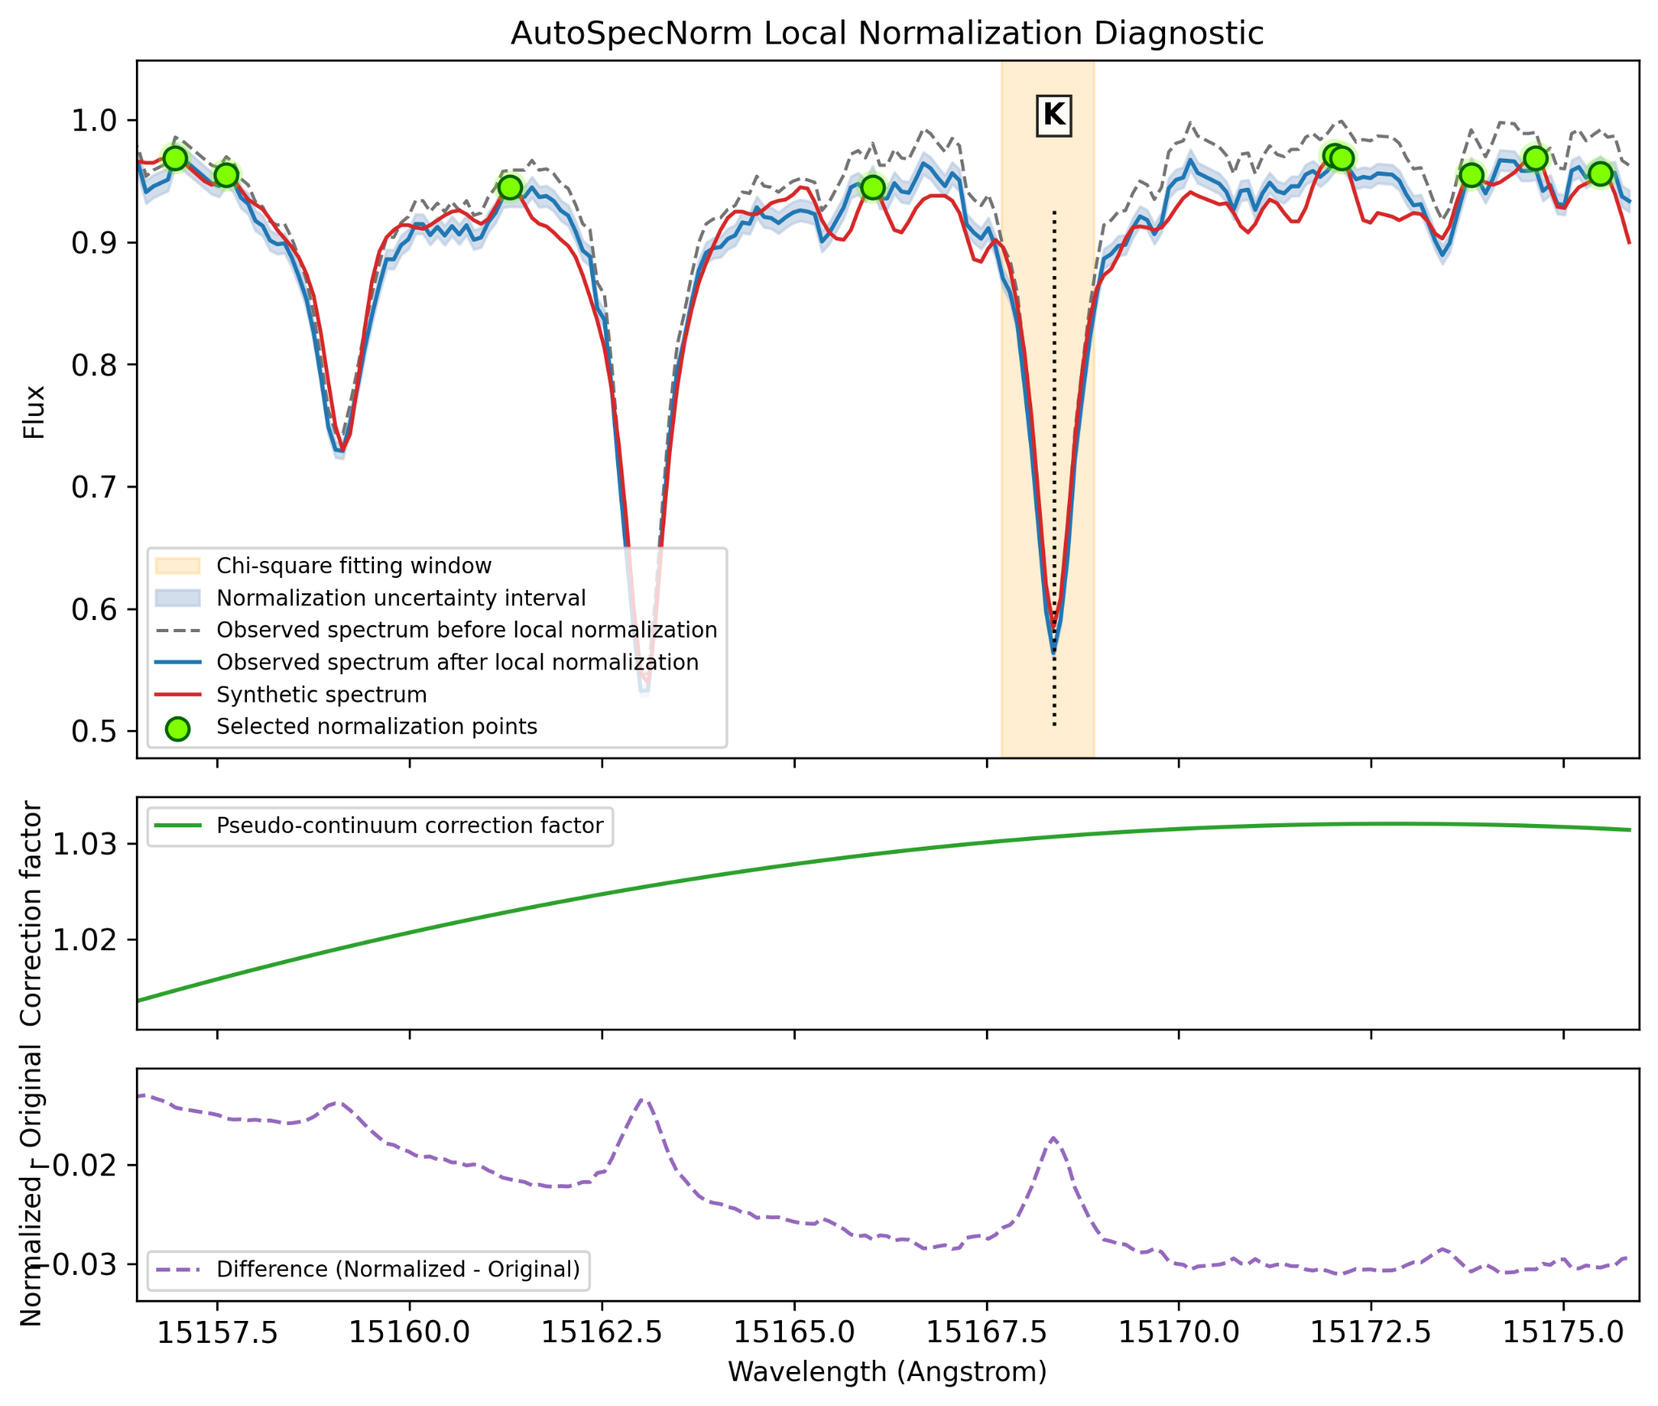
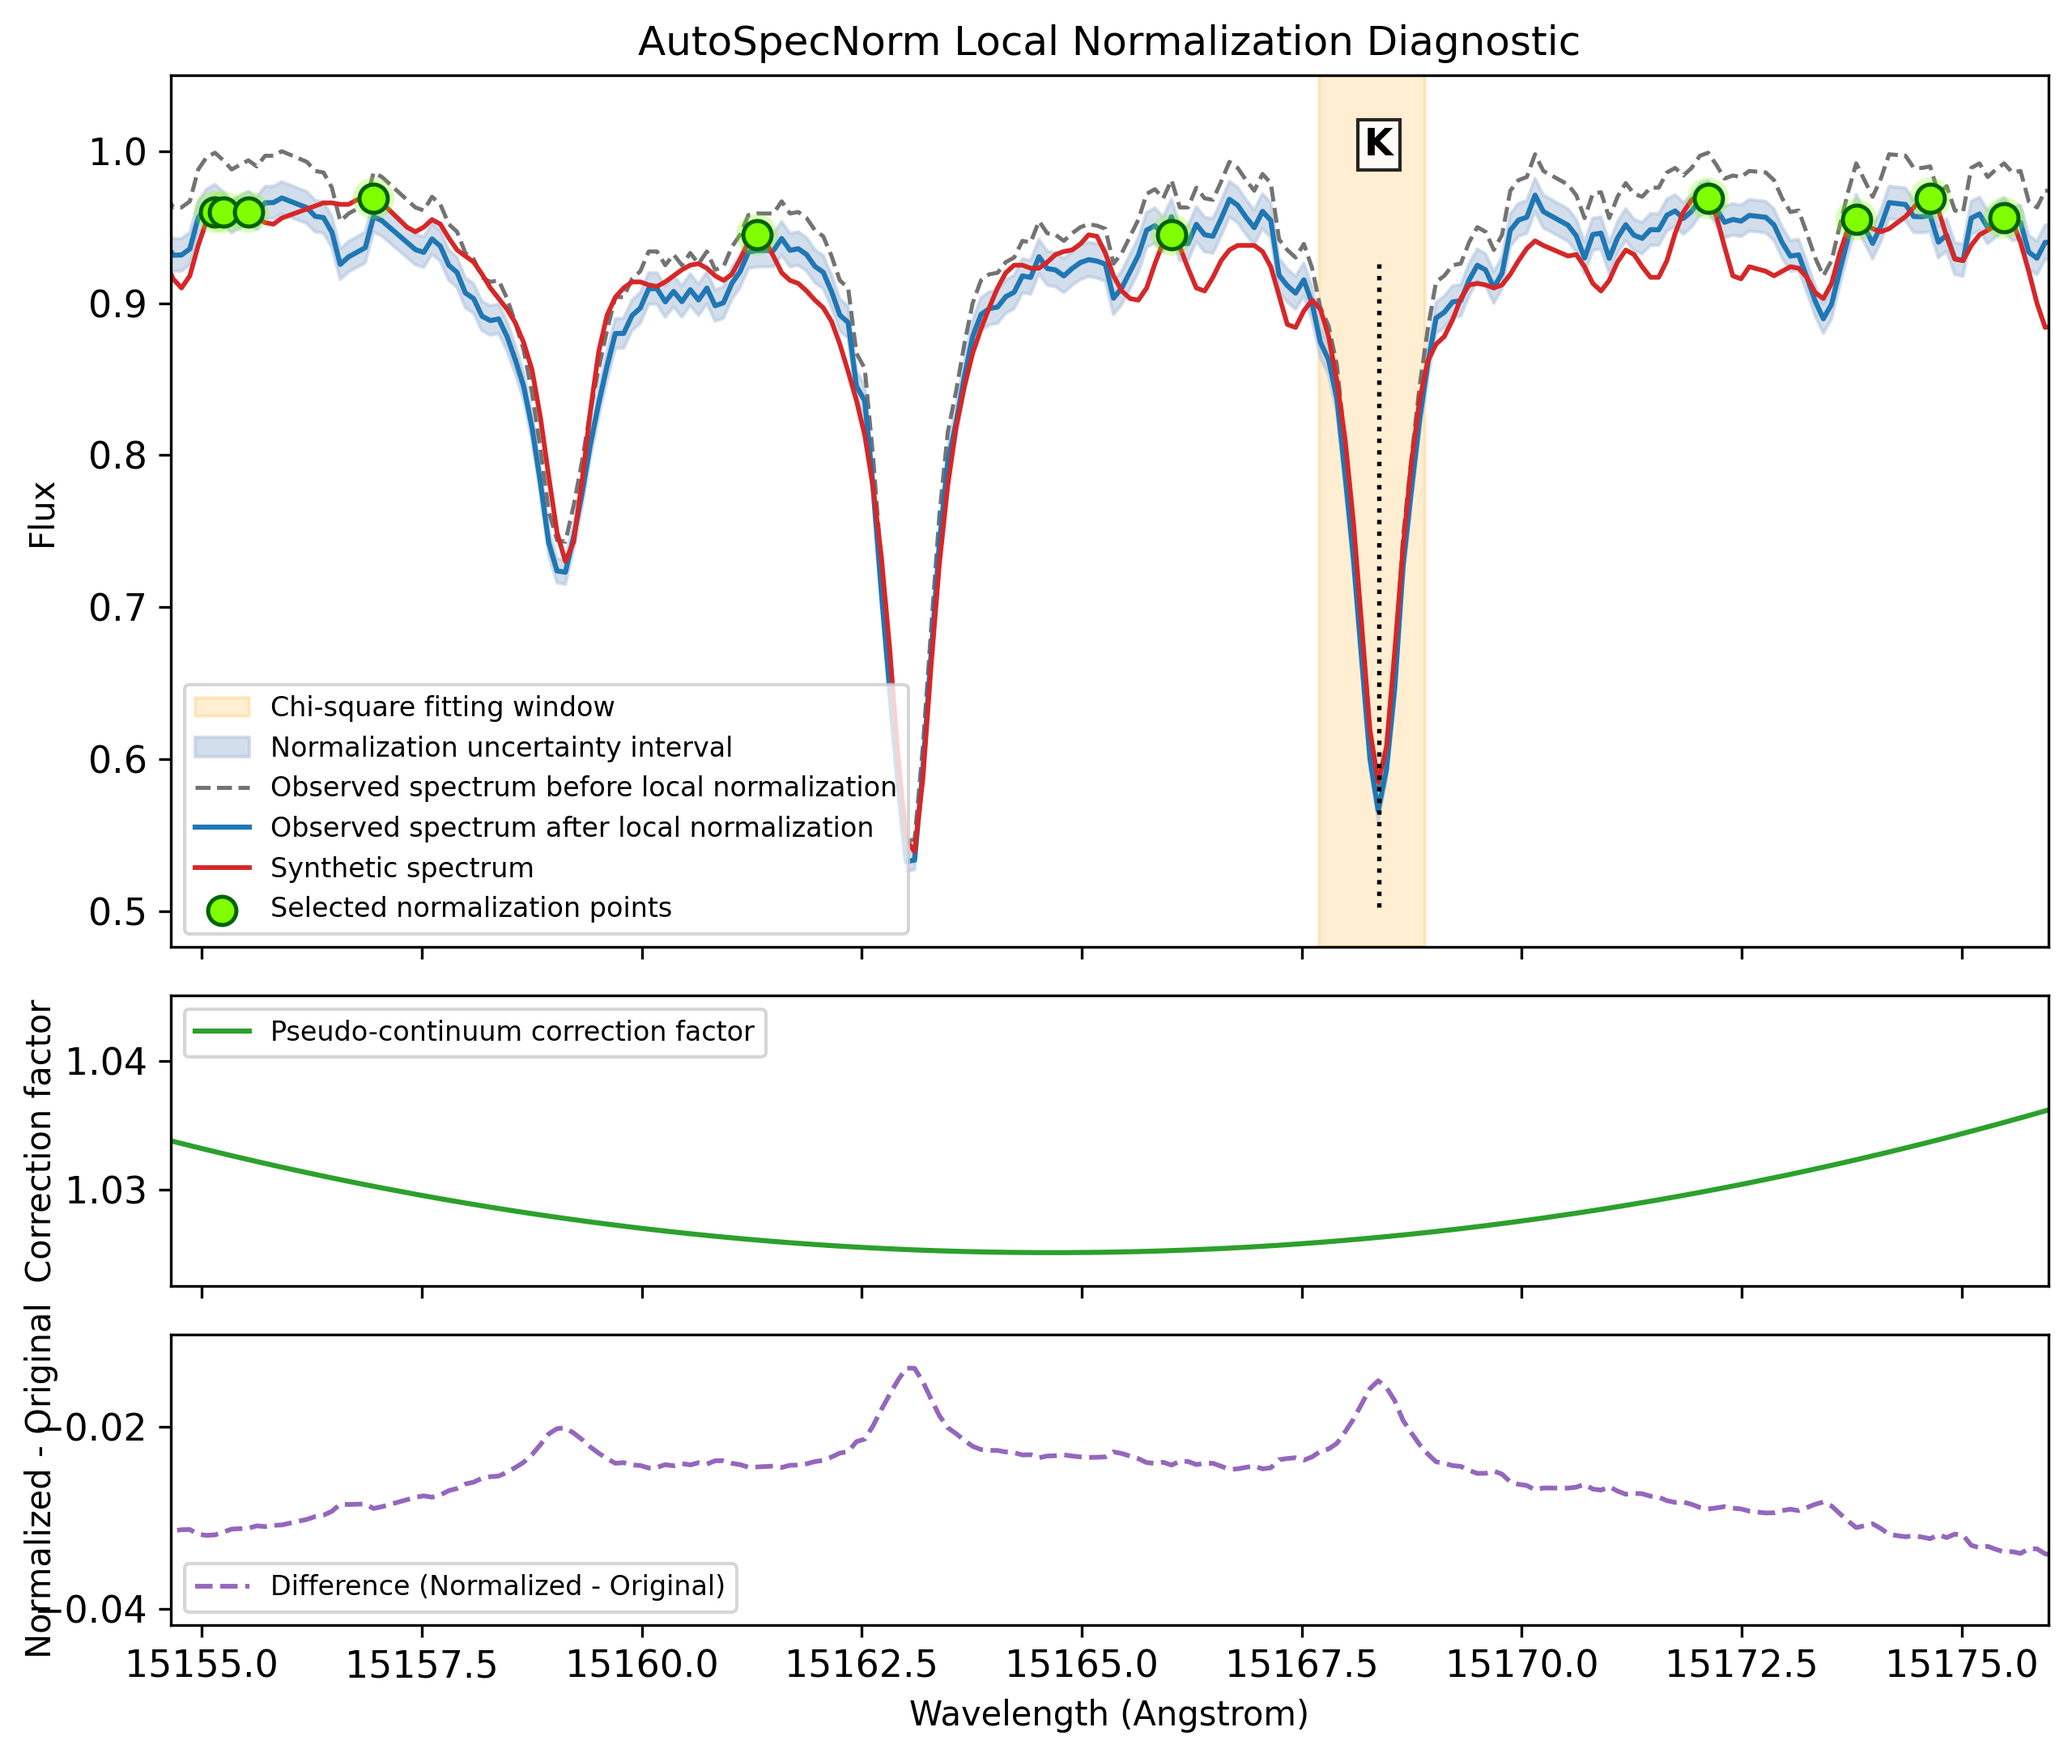
Update AutoSpecNorm normalization and diagnostics

diff --git a/src/AutoSpecNorm_Regions.py b/src/AutoSpecNorm_Regions.py
@@ -29,25 +29,43 @@ def _select_polynomial_order(wavelength_points):
     normalization points use a lower-order polynomial to avoid unstable fits,
     while denser and more uniformly distributed points can support a higher
     order.
+
+    The thresholds and scientific behavior are unchanged from the original
+    implementation. The only added safeguards are handling very small point
+    sets before evaluating wavelength gaps and ensuring that adjacent gaps are
+    evaluated in wavelength order.
     """
+    wavelength_points = np.asarray(wavelength_points)
+    n_points = wavelength_points.size
+
+    # With three or fewer points, always use a first-order polynomial.
+    # Checking this first also avoids np.max(np.diff(...)) on an empty array
+    # when zero or one point is available.
+    if n_points <= 3:
+        return 1
+
+    # Normalization points are normally already wavelength ordered, but sort
+    # only when necessary so that "adjacent" gaps always have the intended
+    # meaning without adding avoidable work in the usual case.
+    if np.any(np.diff(wavelength_points) < 0):
+        wavelength_points = np.sort(wavelength_points)
+
     max_gap = np.max(np.diff(wavelength_points))
 
-    if len(wavelength_points) <= 3 or max_gap >= 15:
+    # Very sparse sampling takes precedence over the point-count rules.
+    if max_gap >= 15:
         return 1
 
-    if len(wavelength_points) == 4 and max_gap >= 10:
-        return 1
-
-    if len(wavelength_points) == 4 and max_gap < 10:
+    if n_points == 4:
+        if max_gap >= 10:
+            return 1
         return 2
 
-    if len(wavelength_points) > 4 and max_gap >= 3:
+    # More than four normalization points.
+    if max_gap >= 3:
         return 2
 
-    if len(wavelength_points) > 4 and max_gap < 3:
-        return 3
-
-    return 1
+    return 3
 
 
 def _remove_deepest_point_if_safe(
@@ -103,26 +121,23 @@ def _remove_boundary_point_if_safe(
         and len(left_points) > 1
         and len(lam_cut_work) >= 3
     ):
-        lam_cut_work = lam_cut_work[lam_cut_work != lam_star_cut[0]]
-        flux_interp_model_cut_work = flux_interp_model_cut_work[
-            flux_interp_model_cut_work != flux_interp_model_cut[0]
-        ]
-        flux_star_cut_work = flux_star_cut_work[
-            flux_star_cut_work != flux_star_cut[0]
-        ]
+        # Apply one common mask to wavelength, observed flux, and model flux
+        # so the three arrays always remain synchronized.
+        keep = lam_cut_work != lam_star_cut[0]
+        lam_cut_work = lam_cut_work[keep]
+        flux_interp_model_cut_work = flux_interp_model_cut_work[keep]
+        flux_star_cut_work = flux_star_cut_work[keep]
 
     elif (
         lam_star_cut[-1] in lam_cut_work
         and len(right_points) > 1
         and len(lam_cut_work) >= 3
     ):
-        lam_cut_work = lam_cut_work[lam_cut_work != lam_star_cut[-1]]
-        flux_interp_model_cut_work = flux_interp_model_cut_work[
-            flux_interp_model_cut_work != flux_interp_model_cut[-1]
-        ]
-        flux_star_cut_work = flux_star_cut_work[
-            flux_star_cut_work != flux_star_cut[-1]
-        ]
+        # Apply the same positional mask to all associated arrays.
+        keep = lam_cut_work != lam_star_cut[-1]
+        lam_cut_work = lam_cut_work[keep]
+        flux_interp_model_cut_work = flux_interp_model_cut_work[keep]
+        flux_star_cut_work = flux_star_cut_work[keep]
 
     return lam_cut_work, flux_interp_model_cut_work, flux_star_cut_work
 

diff --git a/examples/Example_AutoSpecNorm_Local_Normalization.py b/examples/Example_AutoSpecNorm_Local_Normalization.py
@@ -109,8 +109,8 @@ class AutoSpecNormExampleConfig:
     # points in the synthetic and observed spectra.
     limit_model: float = 0.95
     limit_star: float = 0.95
-    peak_index_model: float = 0.002
-    peak_index_star: float = 0.002
+    peak_index_model: float = 0.0019
+    peak_index_star: float = 0.0019
 
     # ------------------------------------------------------------------
     # Plot settings
